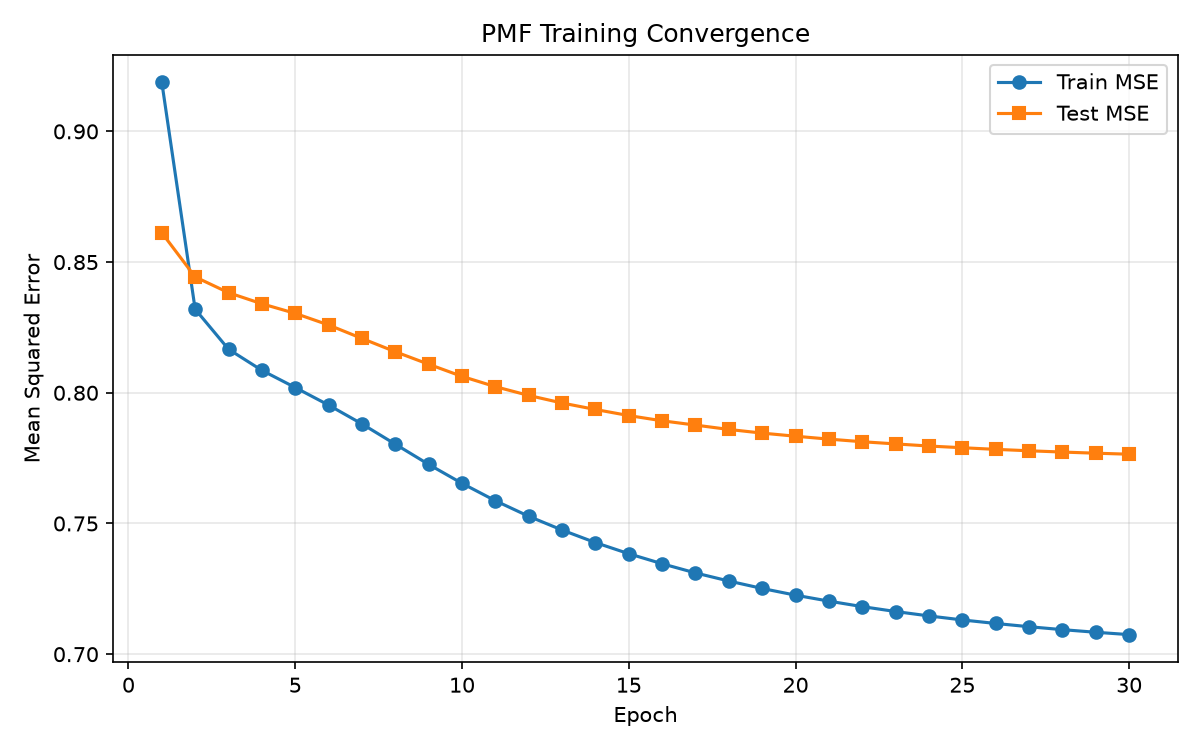
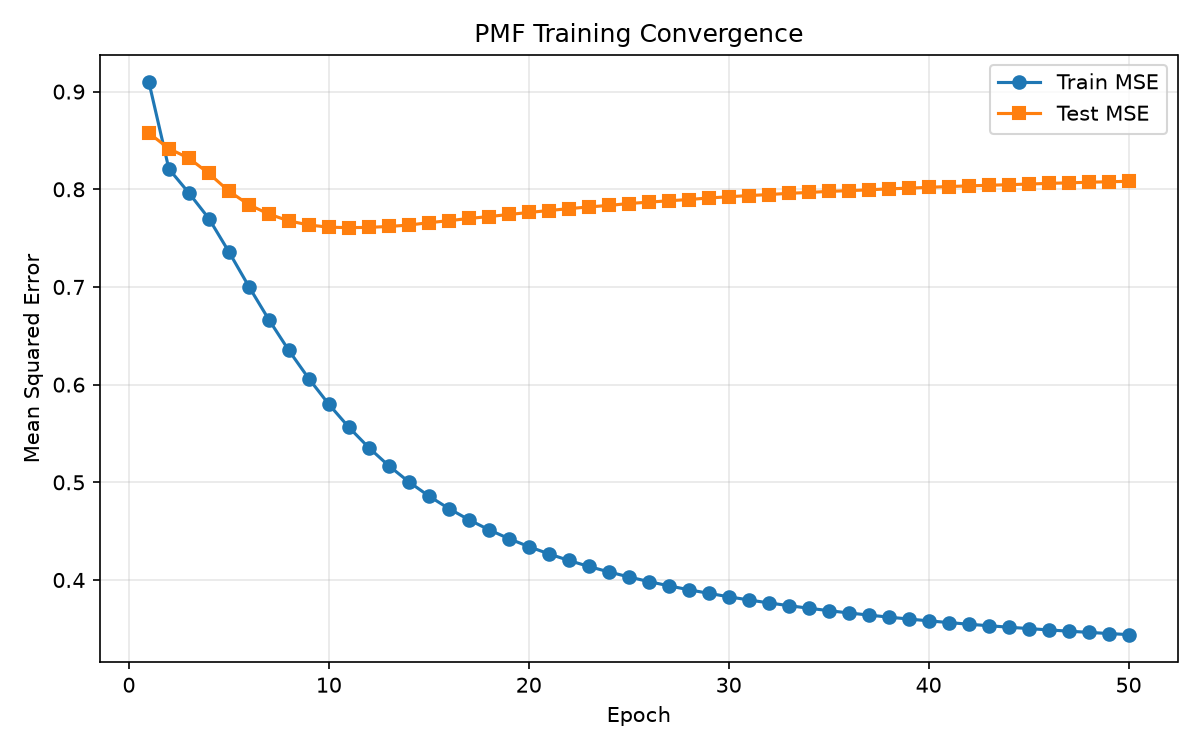
Rewrote PMF model with vectorized mini-batch SGD and seed ensemble

diff --git a/models/pmf_model.py b/models/pmf_model.py
@@ -1,6 +1,16 @@
-"""Probabilistic Matrix Factorization trained with stochastic gradient descent."""
+"""Probabilistic Matrix Factorization trained with mini-batch SGD.
 
-import json
+Ratings are modeled as: mu + user_bias + item_bias + U[u] . V[i], where the
+latent factor matrices U and V have Gaussian priors (the L2 penalty is the
+MAP estimate of those priors).
+
+The final model is a small ensemble: several PMF models trained from
+different random initializations whose predictions are averaged. This
+reduces variance the same way averaging several independent estimates does.
+Hyperparameters were selected with a held-out validation set and learning
+curves (see the notebook and reports/pmf_convergence.png).
+"""
+
 import os
 
 import matplotlib
@@ -11,94 +21,155 @@ import numpy as np
 
 
 class PMF:
-    """PMF with user/item biases, L2 regularization and SGD training.
+    """Biased PMF trained with vectorized mini-batch SGD."""
 
-    Ratings are modeled as: mu + user_bias + item_bias + U[u] . V[i]
-    where U and V are latent factor matrices with Gaussian priors
-    (the L2 penalty is the MAP estimate of those priors).
-    """
-
-    def __init__(self, n_factors=30, learning_rate=0.01, reg=0.05,
-                 n_epochs=30, lr_decay=0.9, random_state=42):
+    def __init__(self, n_factors=128, learning_rate=0.01, reg=0.07,
+                 bias_reg=0.01, n_epochs=65, lr_decay=0.99,
+                 batch_size=4096, random_state=42):
         self.n_factors = n_factors
         self.learning_rate = learning_rate
         self.reg = reg
+        self.bias_reg = bias_reg
         self.n_epochs = n_epochs
         self.lr_decay = lr_decay
+        self.batch_size = batch_size
         self.random_state = random_state
         self.history = {"train_mse": [], "test_rmse": []}
 
     def fit(self, train_data, test_data=None, n_users=None, n_items=None):
-        """Train with SGD on (user_idx, item_idx, rating) triples."""
+        """Train on (user_idx, item_idx, rating) index arrays.
+
+        Mini-batches of ratings are processed with vectorized numpy updates
+        (np.add.at scatters per-sample gradients), which is orders of
+        magnitude faster than a pure-Python loop while performing the same
+        stochastic gradient descent.
+        """
         users, items, ratings = train_data
+        ratings = ratings.astype(np.float32)
         rng = np.random.default_rng(self.random_state)
 
-        self.mu = ratings.mean()
-        self.bu = np.zeros(n_users)
-        self.bi = np.zeros(n_items)
-        self.U = rng.normal(0, 0.1, (n_users, self.n_factors))
-        self.V = rng.normal(0, 0.1, (n_items, self.n_factors))
+        self.mu = np.float32(ratings.mean())
+        self.bu = np.zeros(n_users, dtype=np.float32)
+        self.bi = np.zeros(n_items, dtype=np.float32)
+        self.U = rng.normal(0, 0.1, (n_users, self.n_factors)).astype(np.float32)
+        self.V = rng.normal(0, 0.1, (n_items, self.n_factors)).astype(np.float32)
 
         lr = self.learning_rate
         n = len(ratings)
         for epoch in range(self.n_epochs):
-            order = rng.permutation(n)
+            # deterministic shuffling: one RNG stream per epoch
+            order = np.random.default_rng(
+                self.random_state * 100000 + epoch
+            ).permutation(n)
             sq_err_sum = 0.0
-            for idx in order:
-                u, i, r = users[idx], items[idx], ratings[idx]
-                pred = self.mu + self.bu[u] + self.bi[i] + self.U[u] @ self.V[i]
-                err = r - pred
-                sq_err_sum += err * err
-                self.bu[u] += lr * (err - self.reg * self.bu[u])
-                self.bi[i] += lr * (err - self.reg * self.bi[i])
-                u_row = self.U[u].copy()
-                self.U[u] += lr * (err * self.V[i] - self.reg * u_row)
-                self.V[i] += lr * (err * u_row - self.reg * self.V[i])
+            for start in range(0, n, self.batch_size):
+                idx = order[start:start + self.batch_size]
+                a, b, r = users[idx], items[idx], ratings[idx]
+                Ua, Vb = self.U[a], self.V[b]
+                err = (r - (self.mu + self.bu[a] + self.bi[b]
+                            + np.sum(Ua * Vb, axis=1))).astype(np.float32)
+                sq_err_sum += float(np.sum(err * err))
+                np.add.at(self.bu, a, lr * (err - self.bias_reg * self.bu[a]))
+                np.add.at(self.bi, b, lr * (err - self.bias_reg * self.bi[b]))
+                np.add.at(self.U, a, lr * (err[:, None] * Vb - self.reg * Ua))
+                np.add.at(self.V, b, lr * (err[:, None] * Ua - self.reg * Vb))
 
             train_mse = sq_err_sum / n
             self.history["train_mse"].append(train_mse)
-            msg = f"Epoch {epoch + 1:2d}/{self.n_epochs} | train MSE = {train_mse:.4f}"
+            msg = (f"  seed {self.random_state} | epoch {epoch + 1:2d}/"
+                   f"{self.n_epochs} | train MSE = {train_mse:.4f}")
             if test_data is not None:
                 test_rmse = self.evaluate(*test_data)
                 self.history["test_rmse"].append(test_rmse)
                 msg += f" | test RMSE = {test_rmse:.4f}"
-            print(msg)
-            lr *= self.lr_decay  # learning rate decay for stable convergence
+            print(msg, flush=True)
+            lr *= self.lr_decay  # learning-rate decay for stable convergence
         return self
 
+    def raw_predict(self, users, items):
+        """Unclipped predictions (used by the ensemble average)."""
+        return (self.mu + self.bu[users] + self.bi[items]
+                + np.sum(self.U[users] * self.V[items], axis=1))
+
     def predict(self, users, items):
-        """Predict ratings for arrays of user/item indices, clipped to [1, 5]."""
-        preds = (self.mu + self.bu[users] + self.bi[items]
-                 + np.sum(self.U[users] * self.V[items], axis=1))
-        return np.clip(preds, 1, 5)
+        """Predicted ratings clipped to the valid 1-5 scale."""
+        return np.clip(self.raw_predict(users, items), 1, 5)
 
     def evaluate(self, users, items, ratings):
         """RMSE against known ratings."""
         preds = self.predict(users, items)
         return float(np.sqrt(np.mean((preds - ratings) ** 2)))
 
+    def raw_full_matrix(self):
+        """Unclipped dense predicted rating matrix."""
+        return (self.mu + self.bu[:, None] + self.bi[None, :]
+                + self.U @ self.V.T)
+
+
+class PMFEnsemble:
+    """Averages the predictions of several PMF models (different seeds).
+
+    Each member sees the same data but starts from a different random
+    initialization, so their individual errors are partly independent;
+    averaging cancels part of that noise (variance reduction). Predictions
+    are averaged BEFORE clipping to [1, 5].
+    """
+
+    def __init__(self, seeds=(42, 7, 123, 555, 999, 2024), **pmf_kwargs):
+        self.seeds = seeds
+        self.pmf_kwargs = pmf_kwargs
+        self.models = []
+
+    def fit(self, train_data, test_data=None, n_users=None, n_items=None):
+        for i, seed in enumerate(self.seeds):
+            print(f"Training PMF member {i + 1}/{len(self.seeds)} "
+                  f"(seed {seed})...", flush=True)
+            model = PMF(random_state=seed, **self.pmf_kwargs)
+            # only the first member tracks the test curve (for the plot);
+            # skipping it for the others saves time
+            model.fit(train_data, test_data if i == 0 else None,
+                      n_users=n_users, n_items=n_items)
+            self.models.append(model)
+        return self
+
+    @property
+    def history(self):
+        return self.models[0].history
+
+    def predict(self, users, items):
+        raw = np.mean([m.raw_predict(users, items) for m in self.models], axis=0)
+        return np.clip(raw, 1, 5)
+
+    def evaluate(self, users, items, ratings):
+        preds = self.predict(users, items)
+        return float(np.sqrt(np.mean((preds - ratings) ** 2)))
+
     def full_matrix(self):
-        """Dense predicted rating matrix for all users and items."""
-        preds = self.mu + self.bu[:, None] + self.bi[None, :] + self.U @ self.V.T
-        return np.clip(preds, 1, 5)
+        """Averaged dense predicted rating matrix, clipped to [1, 5]."""
+        acc = self.models[0].raw_full_matrix()
+        for m in self.models[1:]:
+            acc += m.raw_full_matrix()
+        return np.clip(acc / len(self.models), 1, 5)
 
     def save_factors(self, dir_path="reports/pmf_factors"):
-        """Save learned latent factor matrices U and V (and biases)."""
+        """Save each member's learned latent factor matrices U and V."""
         os.makedirs(dir_path, exist_ok=True)
-        np.save(f"{dir_path}/U.npy", self.U)
-        np.save(f"{dir_path}/V.npy", self.V)
-        np.save(f"{dir_path}/user_bias.npy", self.bu)
-        np.save(f"{dir_path}/item_bias.npy", self.bi)
+        for m in self.models:
+            np.save(f"{dir_path}/U_seed{m.random_state}.npy", m.U)
+            np.save(f"{dir_path}/V_seed{m.random_state}.npy", m.V)
+            np.save(f"{dir_path}/user_bias_seed{m.random_state}.npy", m.bu)
+            np.save(f"{dir_path}/item_bias_seed{m.random_state}.npy", m.bi)
 
     def plot_convergence(self, path="reports/pmf_convergence.png"):
-        """Save the MSE-vs-iteration convergence plot."""
+        """Save the MSE-vs-iteration convergence plot (first member)."""
         os.makedirs(os.path.dirname(path), exist_ok=True)
-        epochs = range(1, len(self.history["train_mse"]) + 1)
+        h = self.history
+        epochs = range(1, len(h["train_mse"]) + 1)
         plt.figure(figsize=(8, 5))
-        plt.plot(epochs, self.history["train_mse"], marker="o", label="Train MSE")
-        if self.history["test_rmse"]:
-            test_mse = [r ** 2 for r in self.history["test_rmse"]]
-            plt.plot(epochs, test_mse, marker="s", label="Test MSE")
+        plt.plot(epochs, h["train_mse"], marker="o", ms=3, label="Train MSE")
+        if h["test_rmse"]:
+            plt.plot(epochs, [r ** 2 for r in h["test_rmse"]],
+                     marker="s", ms=3, label="Test MSE")
         plt.xlabel("Epoch")
         plt.ylabel("Mean Squared Error")
         plt.title("PMF Training Convergence")
@@ -107,46 +178,3 @@ class PMF:
         plt.tight_layout()
         plt.savefig(path, dpi=150)
         plt.close()
-
-
-if __name__ == "__main__":
-    import sys
-
-    sys.path.append(".")
-    from utils.data_loader import load_ratings, preprocess_ratings, split_ratings
-    from utils.matrix_creation import create_user_item_matrix
-    from models.svd_model import append_metric
-
-    ratings = preprocess_ratings(load_ratings())
-    train_df, test_df = split_ratings(ratings)
-    matrix = create_user_item_matrix(train_df)
-    user_index, movie_index = matrix.index, matrix.columns
-
-    train = (
-        user_index.get_indexer(train_df["user_id"]).astype(np.int32),
-        movie_index.get_indexer(train_df["movie_id"]).astype(np.int32),
-        train_df["rating"].values.astype(np.float64),
-    )
-    known = test_df[
-        test_df["user_id"].isin(user_index) & test_df["movie_id"].isin(movie_index)
-    ]
-    test = (
-        user_index.get_indexer(known["user_id"]).astype(np.int32),
-        movie_index.get_indexer(known["movie_id"]).astype(np.int32),
-        known["rating"].values.astype(np.float64),
-    )
-
-    model = PMF(n_factors=30, learning_rate=0.01, reg=0.05, n_epochs=30)
-    model.fit(train, test, n_users=len(user_index), n_items=len(movie_index))
-
-    pmf_rmse = model.evaluate(*test)
-    model.save_factors()
-    model.plot_convergence()
-    append_metric("PMF_RMSE", pmf_rmse)
-
-    with open("reports/model_metrics.json") as f:
-        metrics = json.load(f)
-    improvement = (metrics["SVD_RMSE"] - pmf_rmse) / metrics["SVD_RMSE"] * 100
-    append_metric("PMF_vs_SVD_improvement_%", improvement)
-    print(f"\nSVD RMSE: {metrics['SVD_RMSE']} | PMF RMSE: {pmf_rmse:.4f} "
-          f"| Improvement: {improvement:.2f}%")
